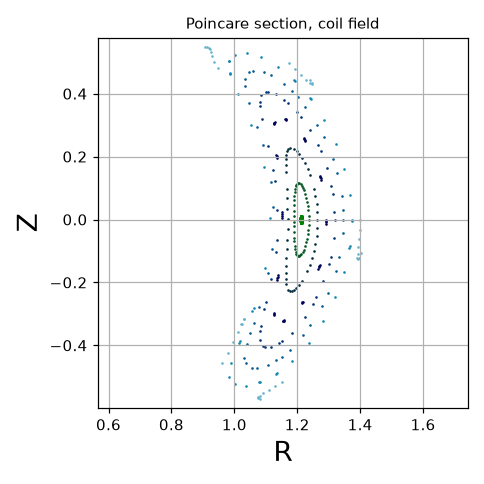
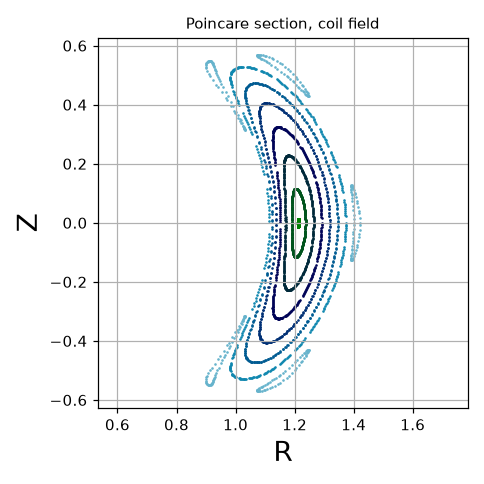
Trace the Poincare section long enough to resolve the surfaces
maxtime 1000 -> 8000 with 40000 samples: the nested flux surfaces are now
continuous curves rather than scattered points.

diff --git a/docs/make_readme_figures.py b/docs/make_readme_figures.py
@@ -78,7 +78,7 @@ def field_line_tracing() -> None:
     seeds = jnp.array([R0, zeros, zeros]).T
 
     tracing = Tracing(field=field, model="FieldLineAdaptative", initial_conditions=seeds,
-                      maxtime=1000, times_to_trace=6000, atol=1e-8, rtol=1e-8)
+                      maxtime=8000, times_to_trace=40000, atol=1e-8, rtol=1e-8)
 
     fig, ax = plt.subplots(figsize=(4.4, 4.4))
     tracing.poincare_plot(ax=ax, show=False, shifts=[0.0])

diff --git a/README.md b/README.md
@@ -79,7 +79,7 @@ R0 = jnp.linspace(1.21, 1.40, 8)
 seeds = jnp.array([R0, jnp.zeros_like(R0), jnp.zeros_like(R0)]).T
 
 tracing = Tracing(field=field, model="FieldLineAdaptative", initial_conditions=seeds,
-                  maxtime=1000, times_to_trace=6000, atol=1e-8, rtol=1e-8)
+                  maxtime=8000, times_to_trace=40000, atol=1e-8, rtol=1e-8)
 tracing.poincare_plot(shifts=[0.0])
 ```
 
